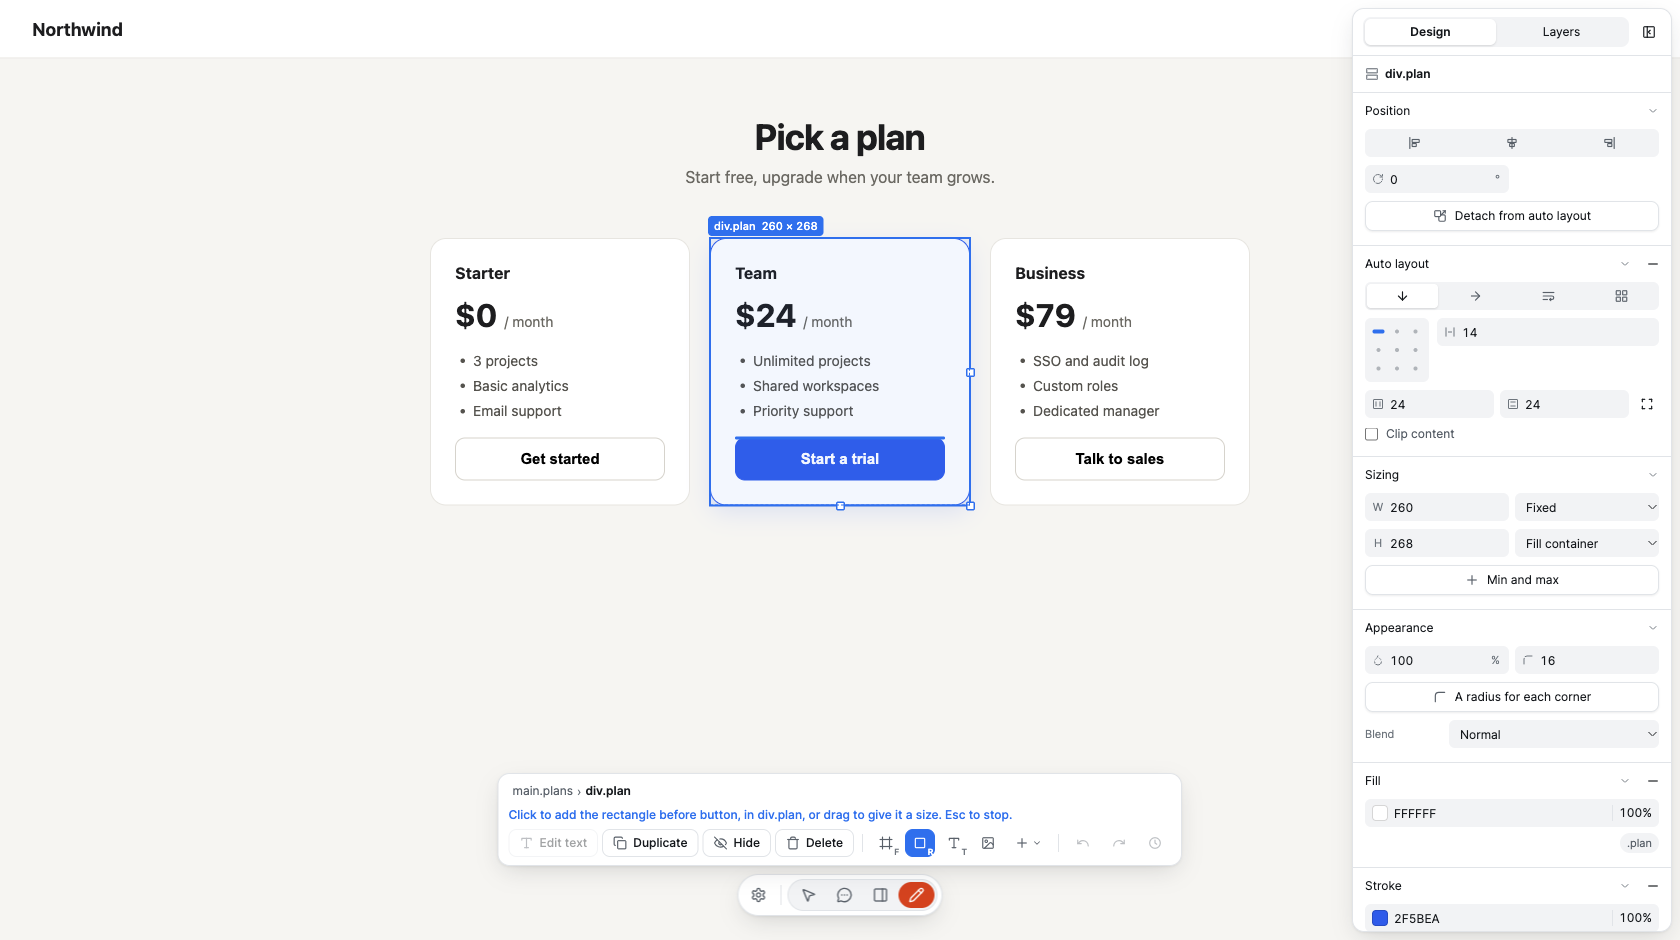
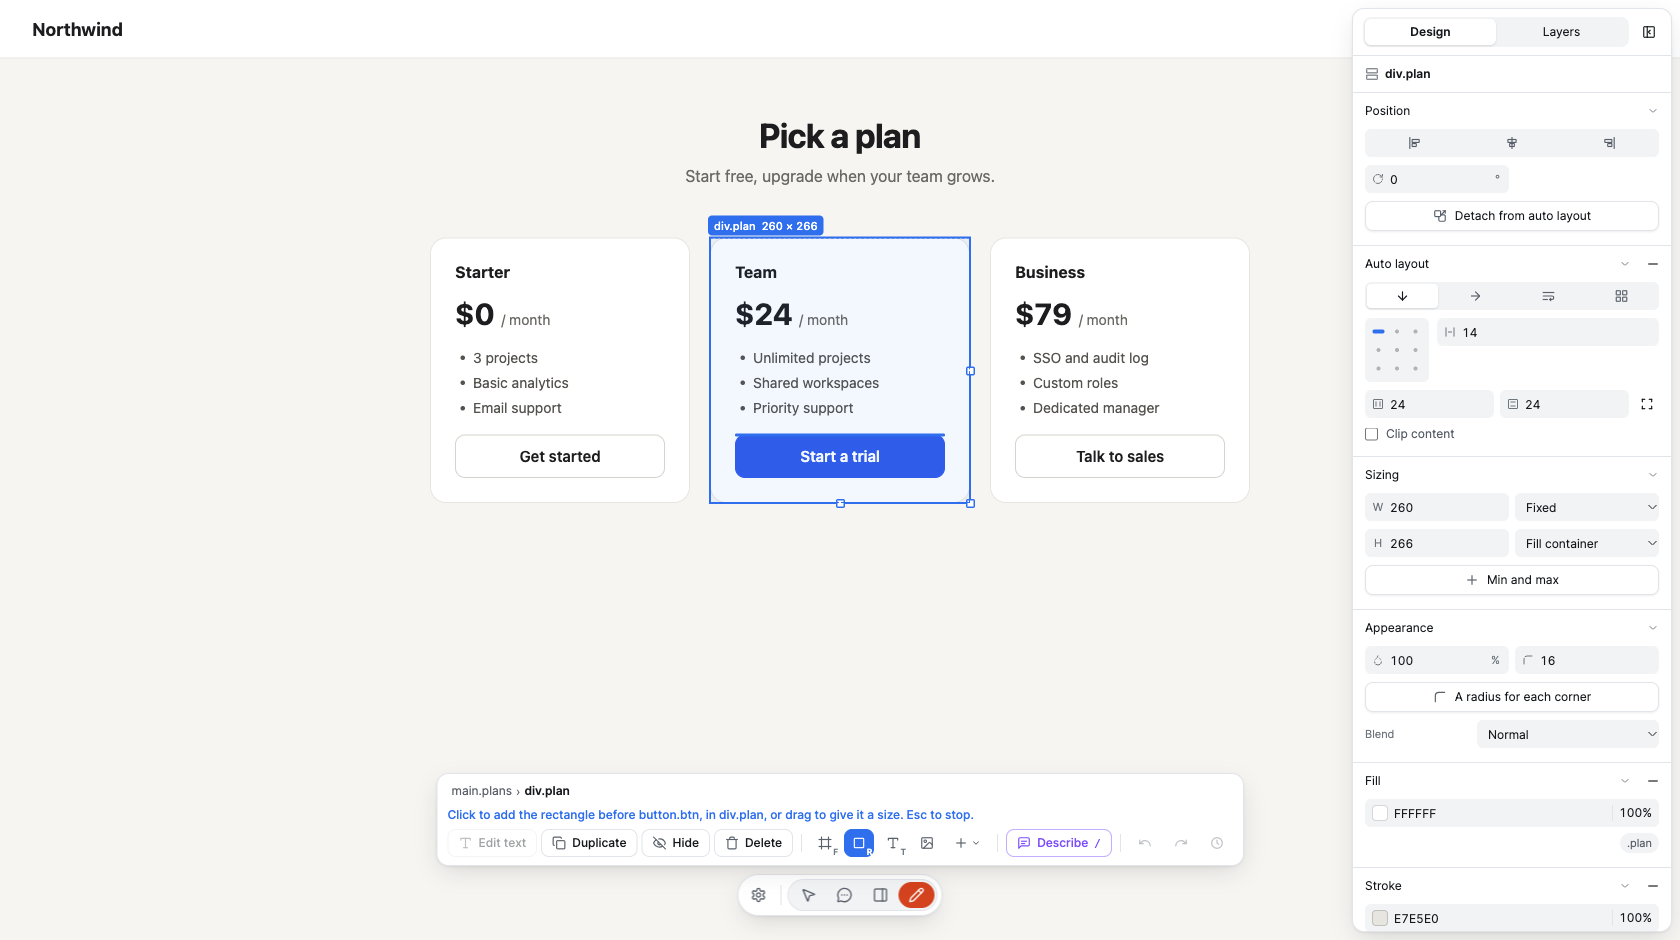
Float Describe's stack, keep the panel over the selection, and announce 0.3.0
The stack of described changes floats on its own card above the bar,
with borders between the list and the switch and buttons, and the
prompt wraps back under its slash. The Edit panel now covers the
selection, handles, drop lines and markers drawn on the page instead of
lying under them. Panel labels get a wider column, so "Background blur"
fits. A copied request leaves out page-wide rules and folds font-*
longhands back into one font: inherit.

Screenshots of Edit mode and Describe, retaken for the README, and a
What's new entry for 0.3.0 that leads with Describe.

diff --git a/src/overlay/editScript.ts b/src/overlay/editScript.ts
@@ -2451,7 +2451,6 @@ ${EDIT_DESCRIBE}
     actions.appendChild(reloadBtn);
     var insertMenu = el("div", "ed-menu ed-insert");
     insertMenu.hidden = true;
-    bar.appendChild(stack);
     bar.appendChild(crumbs);
     bar.appendChild(status);
     bar.appendChild(describe);
@@ -2464,6 +2463,7 @@ ${EDIT_DESCRIBE}
     });
 
     host.wrap.appendChild(layer);
+    host.wrap.appendChild(stack);
     host.wrap.appendChild(bar);
     host.wrap.appendChild(menu);
 
@@ -2793,6 +2793,27 @@ ${EDIT_DESCRIBE}
       bar.style.top = "";
       bar.style.bottom = (notch ? hostWin.innerHeight - notch.top : 24) + 8 + "px";
     }
+    placeStack(left, width);
+  }
+
+  /*
+   * Describe's stack floats on its own card, the bar's width, on the far side
+   * of the bar from the notch: above it at the bottom, below it at the top.
+   */
+  function placeStack(left, width) {
+    var stack = ui.stack;
+    if (ui.bar.hidden) stack.hidden = true;
+    if (stack.hidden) return;
+    var r = ui.bar.getBoundingClientRect();
+    stack.style.left = left + "px";
+    stack.style.width = Math.max(width, 420) + "px";
+    if (ui.bar.style.top) {
+      stack.style.top = r.bottom + 8 + "px";
+      stack.style.bottom = "";
+    } else {
+      stack.style.top = "";
+      stack.style.bottom = hostWin.innerHeight - r.top + 8 + "px";
+    }
   }
 
   function crumbsFor(target) {
@@ -3030,7 +3051,10 @@ ${EDIT_DESCRIBE}
  * reviewer's light or dark choice.
  */
 export const EDIT_CSS = `
-.osp-overlay .ed-layer { position: fixed; inset: 0; pointer-events: none; z-index: 5; }
+.osp-overlay .ed-layer { position: fixed; inset: 0; pointer-events: none; z-index: 4; }
+/* The panel covers the page, so it covers what is drawn on the page too: the
+   selection, its handles, drop lines and measures go under it, not across it. */
+.osp-overlay .co-panel[data-content="edit"] { z-index: 5; }
 .osp-overlay .ed-layer[hidden], .osp-overlay .ed-box[hidden], .osp-overlay .ed-bar[hidden], .osp-overlay .ed-menu[hidden] { display: none; }
 .osp-overlay .ed-box { position: fixed; box-sizing: border-box; pointer-events: none; }
 .osp-overlay .ed-hover { outline: 1px dashed #2f6fed; outline-offset: -1px; }
@@ -3119,21 +3143,29 @@ export const EDIT_CSS = `
 .osp-overlay .ed-describe-box { display: flex; flex-direction: column; gap: 4px; min-width: min(560px, calc(100vw - 40px)); }
 .osp-overlay .ed-describe-box[hidden] { display: none; }
 .osp-overlay .ed-describe-note { color: #6a3df0; font-size: 12px; font-weight: 600; }
-.osp-overlay .ed-describe { display: flex; align-items: flex-start; gap: 6px; padding: 3px 8px; border: 1.5px solid #7c4dff; border-radius: 8px; }
-.osp-overlay .ed-describe-slash { color: #7c4dff; font-weight: 700; line-height: 24px; }
-.osp-overlay .ed-describe-subject { flex: none; line-height: 24px; }
-.osp-overlay .ed-describe-input { flex: 1; min-width: 0; max-height: 96px; overflow-y: auto; outline: none; line-height: 24px; font-size: 12px; overflow-wrap: anywhere; }
+.osp-overlay .ed-describe {
+  display: block; max-height: 104px; overflow-y: auto; padding: 3px 8px; border: 1.5px solid #7c4dff; border-radius: 8px;
+  line-height: 24px; font-size: 12px; overflow-wrap: anywhere; cursor: text;
+}
+.osp-overlay .ed-describe-slash { margin-right: 6px; color: #7c4dff; font-weight: 700; }
+.osp-overlay .ed-describe-subject { margin-right: 6px; }
+.osp-overlay .ed-describe-input { display: inline; outline: none; }
 .osp-overlay .ed-describe-input:empty::before { content: attr(data-placeholder); color: var(--co-fg-3); }
 .osp-overlay .ed-describe-input .ed-chip { margin: 0 1px; }
-.osp-overlay .ed-describe-keys { flex: none; font: 11px/24px Inter, ui-sans-serif, system-ui, sans-serif; color: var(--co-fg-3); white-space: nowrap; }
-.osp-overlay .ed-stack { display: flex; flex-direction: column; gap: 4px; padding-bottom: 8px; border-bottom: 1px solid var(--co-line); }
+.osp-overlay .ed-describe-keys { float: right; margin-left: 12px; font: 11px/24px Inter, ui-sans-serif, system-ui, sans-serif; color: var(--co-fg-3); white-space: nowrap; }
+.osp-overlay .ed-stack {
+  position: fixed; z-index: 6; box-sizing: border-box; display: flex; flex-direction: column; gap: 6px;
+  max-width: min(860px, calc(100vw - 16px)); padding: 8px 10px; border: 1px solid var(--co-line); border-radius: 12px;
+  background: var(--co-bg); color: var(--co-fg); box-shadow: var(--co-shadow);
+  font: 13px/1.4 Inter, ui-sans-serif, system-ui, -apple-system, "Segoe UI", sans-serif;
+}
 .osp-overlay .ed-stack[hidden] { display: none; }
 .osp-overlay .ed-stack-head { display: flex; align-items: center; justify-content: space-between; gap: 8px; }
 .osp-overlay .ed-stack-keys { color: var(--co-fg-3); font-size: 11px; }
 .osp-overlay .ed-seg { display: flex; gap: 2px; padding: 2px; border-radius: 6px; background: var(--co-bg-2); }
 .osp-overlay .ed-seg button { all: unset; cursor: pointer; padding: 0 10px; height: 22px; border-radius: 4px; color: var(--co-fg-2); font: 500 12px/22px Inter, ui-sans-serif, system-ui, sans-serif; }
 .osp-overlay .ed-seg button[data-on] { background: var(--co-bg); color: var(--co-fg); font-weight: 600; box-shadow: 0 1px 2px rgba(0, 0, 0, 0.08); }
-.osp-overlay .ed-stack-list { list-style: none; margin: 0; padding: 0; max-height: 220px; overflow-y: auto; }
+.osp-overlay .ed-stack-list { list-style: none; margin: 0; padding: 4px 0; max-height: 220px; overflow-y: auto; border-top: 1px solid var(--co-line); border-bottom: 1px solid var(--co-line); }
 .osp-overlay .ed-stack-item { display: flex; align-items: flex-start; gap: 6px; padding: 4px 6px; border-radius: 6px; cursor: pointer; font-size: 12px; line-height: 20px; }
 .osp-overlay .ed-stack-item:hover { background: var(--co-bg-2); }
 .osp-overlay .ed-stack-item[data-editing] { background: rgba(124, 77, 255, 0.08); }
@@ -3144,7 +3176,7 @@ export const EDIT_CSS = `
 .osp-overlay .ed-stack-words i { color: #6a3df0; }
 .osp-overlay .ed-stack-act { opacity: 0; flex: none; }
 .osp-overlay .ed-stack-item:hover .ed-stack-act, .osp-overlay .ed-stack-item[data-editing] .ed-stack-act, .osp-overlay .ed-stack-act:focus-visible { opacity: 1; }
-.osp-overlay .ed-stack-copied { margin: 0; max-height: 260px; overflow: auto; padding: 8px 10px; border-radius: 6px; background: #0f1115; color: #d7dae0; font: 11px/16px ui-monospace, SFMono-Regular, Menlo, monospace; white-space: pre-wrap; }
+.osp-overlay .ed-stack-copied { margin: 0; border-top: 1px solid var(--co-line); border-bottom: 1px solid var(--co-line); max-height: 260px; overflow: auto; padding: 8px 10px; border-radius: 6px; background: #0f1115; color: #d7dae0; font: 11px/16px ui-monospace, SFMono-Regular, Menlo, monospace; white-space: pre-wrap; }
 .osp-overlay .ed-stack-foot { display: flex; align-items: center; gap: 4px; }
 .osp-overlay .ed-stack-hint { flex: 1; color: var(--co-fg-3); font-size: 11px; }
 .osp-overlay .ed-btn.ed-ai { background: #7c4dff; border-color: #7c4dff; color: #fff; }
@@ -3257,7 +3289,7 @@ export const EDIT_CSS = `
 .osp-overlay .ep-stack { display: flex; flex-direction: column; gap: 8px; }
 .osp-overlay .ep-pair { display: grid; grid-template-columns: 1fr 1fr; gap: 6px; align-items: center; }
 .osp-overlay .ep-quad { display: grid; grid-template-columns: 1fr 1fr; gap: 6px; flex: 1; }
-.osp-overlay .ep-row { display: grid; grid-template-columns: 76px minmax(0, 1fr); align-items: center; gap: 8px; }
+.osp-overlay .ep-row { display: grid; grid-template-columns: 104px minmax(0, 1fr); align-items: center; gap: 8px; }
 .osp-overlay .ep-label { color: var(--co-fg-3); font-size: 11px; overflow: hidden; text-overflow: ellipsis; white-space: nowrap; }
 .osp-overlay .ep-hint { color: var(--co-fg-3); font-size: 11px; line-height: 15px; }
 .osp-overlay .ep-pad-hint { padding: 12px; }

diff --git a/src/overlay/editDescribe.ts b/src/overlay/editDescribe.ts
@@ -116,7 +116,10 @@ export const EDIT_DESCRIBE = String.raw`
     if (describing.editing !== null) {
       box.appendChild(el("div", "ed-describe-note", "Editing change " + (describing.editing + 1) + ". Click layers to point at them."));
     }
+    // One flowing line: the slash, the subject and the words wrap together,
+    // back to the left edge, with the keys floated at the right of the first.
     var line = el("div", "ed-describe");
+    line.appendChild(el("kbd", "ed-describe-keys", describing.editing !== null ? "Enter saves · Esc keeps it" : "Enter adds · Esc"));
     line.appendChild(el("span", "ed-describe-slash", "/"));
     var subject = el("span", "ed-describe-subject");
     subject.appendChild(layerChip(describing.subject));
@@ -159,19 +162,26 @@ export const EDIT_DESCRIBE = String.raw`
       refresh();
     });
     line.appendChild(ed);
-    line.appendChild(el("kbd", "ed-describe-keys", describing.editing !== null ? "Enter saves · Esc keeps it" : "Enter adds · Esc"));
+    // The words are inline, so a click anywhere in the box puts the caret at their end.
+    line.addEventListener("mousedown", function (event) {
+      if (event.target !== line && !event.target.classList.contains("ed-describe-slash")) return;
+      event.preventDefault();
+      caretToEnd(ed);
+    });
     box.appendChild(line);
-    if (focus) {
-      ed.focus();
-      try {
-        var range = document.createRange();
-        range.selectNodeContents(ed);
-        range.collapse(false);
-        var sel = window.getSelection();
-        sel.removeAllRanges();
-        sel.addRange(range);
-      } catch (e) {}
-    }
+    if (focus) caretToEnd(ed);
+  }
+
+  function caretToEnd(ed) {
+    ed.focus();
+    try {
+      var range = document.createRange();
+      range.selectNodeContents(ed);
+      range.collapse(false);
+      var sel = window.getSelection();
+      sel.removeAllRanges();
+      sel.addRange(range);
+    } catch (e) {}
   }
 
   /* The editor's words and chips back into parts. */
@@ -248,6 +258,10 @@ export const EDIT_DESCRIBE = String.raw`
     var rules = rulesFor(n);
     var where = whereOf(n, rules);
     var layer = where && where.layer;
+    // A rule for every element on the page says nothing about this one.
+    var telling = rules.filter(function (r) {
+      return r.rule.selectorText.trim() !== "*";
+    });
     var head = number + ". " + label(n) + (layerWords(n) ? " “" + layerWords(n) + "”" : "");
     if (layer) head += " at " + layer.file + ":" + layer.line;
     else if (stampOf(n) === null) {
@@ -259,9 +273,9 @@ export const EDIT_DESCRIBE = String.raw`
     var html = layer && layer.html ? layer.html : cleanMarkup(n);
     if (html.length > 3000) html = html.slice(0, 3000) + "\n<!-- … -->";
     var out = [head, FENCE + "html", html, FENCE];
-    if (rules.length) {
-      out.push("CSS that applies, the rule that wins first:", FENCE + "css", rules.map(function (r, i) {
-        var spot = where && where.rules ? where.rules[i] : null;
+    if (telling.length) {
+      out.push("CSS that applies, the rule that wins first:", FENCE + "css", telling.map(function (r) {
+        var spot = where && where.rules ? where.rules[rules.indexOf(r)] : null;
         return (spot ? "/* " + spot.file + ":" + spot.line + " */\n" : "") + r.text;
       }).join("\n\n"), FENCE);
     }

diff --git a/src/ui/whatsNew.ts b/src/ui/whatsNew.ts
@@ -1,6 +1,7 @@
 import { App, Modal } from "obsidian";
 import { openExternal } from "../platform/openExternal";
 import editModeShot from "./whats-new/edit-mode.jpg";
+import describeShot from "./whats-new/describe.jpg";
 
 /**
  * What's new: a popup shown once after an update that has something worth
@@ -23,6 +24,41 @@ export interface Release {
 }
 
 export const RELEASES: Release[] = [
+  {
+    version: "0.3.0",
+    title: "Describe a change, hand it to your AI tool",
+    lede:
+      "In Edit mode, press / and say what should change. Click layers while you type to point at them, " +
+      "and copy the lot for Claude Code or Cursor, with the code behind every layer.",
+    image: {
+      src: describeShot,
+      alt:
+        "Describe on a pricing page: two changes in a stack floating above the bar, each with numbered layer chips, " +
+        "a third being written in the bar, and dashed numbered outlines on every layer the request points at.",
+    },
+    points: [
+      {
+        title: "Describe",
+        text: "Changes stack above the bar: click one to edit it, flip to What's copied to see exactly what goes over. Copy for AI (⌘Enter), or Save as note into a Change requests folder.",
+      },
+      {
+        title: "Code you can edit",
+        text: "The Code section lists the rules that style a layer, strongest first. A value that loses is struck out and says to what, and every value is a field that writes to its rule.",
+      },
+      {
+        title: "Attributes and Changes",
+        text: "Edit a link's address, an image's alt text or a field's placeholder, and see this session's edits to each file as a diff, ready to copy.",
+      },
+      {
+        title: "Words the script wrote",
+        text: "Text a page's script puts there can now be retyped where it is written once, in the script or a JSON file it loads. Where it can't, Edit mode says why.",
+      },
+    ],
+    link: {
+      text: "Read how it works",
+      url: "https://github.com/NoteNerdOfficial/vault-publisher#editing-a-prototype-from-its-preview",
+    },
+  },
   {
     version: "0.2.0",
     title: "Edit your prototypes like in Figma",

diff --git a/src/overlay/editPanel.ts b/src/overlay/editPanel.ts
@@ -294,7 +294,10 @@ export const EDIT_PANEL = String.raw`
   function row(labelText, control, title) {
     var r = el("div", "ep-row");
     if (title) r.title = title;
-    r.appendChild(el("span", "ep-label", labelText));
+    var name = el("span", "ep-label", labelText);
+    // Cut short only past the column's width; the whole name is a hover away.
+    if (!title) name.title = labelText;
+    r.appendChild(name);
     r.appendChild(control);
     return r;
   }
@@ -1562,6 +1565,27 @@ export const EDIT_PANEL = String.raw`
         }
       }
     }
+    return foldInheritedFont(out);
+  }
+
+  /*
+   * "font: inherit", which the browser hands back as a dozen font-*
+   * longhands all set to inherit, folded back into the one line it was.
+   */
+  function foldInheritedFont(list) {
+    var inherited = list.filter(function (d) {
+      return /^font-/.test(d.prop) && d.value === "inherit" && !d.important;
+    });
+    if (inherited.length < 4) return list;
+    var out = [];
+    var placed = false;
+    list.forEach(function (d) {
+      if (inherited.indexOf(d) === -1) out.push(d);
+      else if (!placed) {
+        out.push({ prop: "font", value: "inherit", important: false });
+        placed = true;
+      }
+    });
     return out;
   }
 

diff --git a/README.md b/README.md
@@ -638,6 +638,12 @@ Cursor or the like, and **Save as note** writes it to a note in the vault,
 in **Change requests** by default, to point an AI tool at or keep as a
 record. Nothing about it reaches the page's files or its comments.
 
+![Describe on the same pricing page: two changes in a stack floating above
+the bar, each with numbered layer chips, and a third being written in the
+bar about the heading, pointing at the Team plan's price as number 6. Dashed
+outlines and numbers on the page mark every layer the request points
+at.](media/describe.png)
+
 **Attributes** edits the layer's HTML attributes: a link's `href`, an image's
 `alt`, a field's `placeholder` and `type`, `id`, `class`, `aria-label`, and
 any it already has. Event handlers (`on...`) and `javascript:` addresses are
